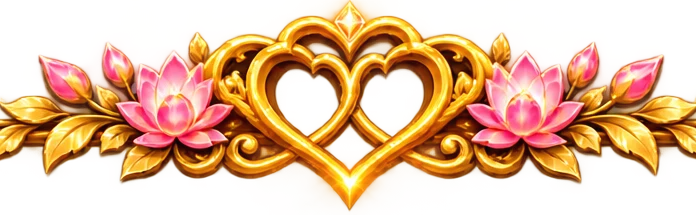
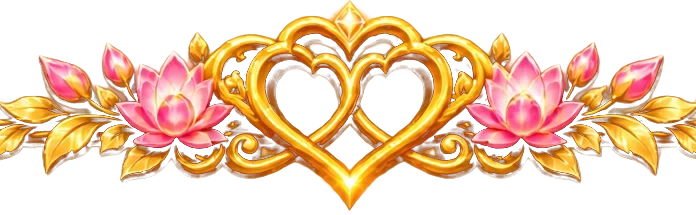
Wedding result: remove share button, fix frame background and topper haze
Claude-Session: https://claude.ai/code/session_01CLtdrZm1piM9T373YnQKig

diff --git a/js/wedding.js b/js/wedding.js
@@ -200,13 +200,7 @@ document.addEventListener("DOMContentLoaded", function () {
       '<div class="wedding-table-wrap"><table class="wedding-table"><thead><tr><th>' + esc(T.colMonth) + "</th><th>" + esc(T.colAnimal) + "</th><th>" + esc(T.colRating) + "</th><th>" + esc(T.colWhy) + "</th><th>" + esc(T.colSeason) + "</th><th>" + esc(T.colHol) + "</th></tr></thead><tbody>" + tableRows + "</tbody></table></div>" +
       '<p class="disclaimer">' + esc(S.wedding_disclaimer || "") + "</p></details>";
 
-    const shareHeading = fill(T.shareHeading, { year: year });
-    const share = typeof shareRowHtml === "function"
-      ? shareRowHtml(shareHeading, { emoji: "💍", heading: shareHeading, subheading: aName(A.animal) + " & " + aName(B.animal) })
-      : "";
-
-    resultBox.innerHTML = guide + share + months + dates + table;
-    if (typeof wireShareRows === "function") wireShareRows(resultBox);
+    resultBox.innerHTML = guide + months + dates + table;
     resultBox.scrollIntoView({ behavior: "smooth", block: "start" });
   });
 });

diff --git a/css/style.css b/css/style.css
@@ -3011,8 +3011,8 @@ footer.site-footer p, .chk-footer p { color: #b9afd6; text-shadow: none; }
   position: relative; margin: 74px 0 26px; padding: 0 12px; text-align: center;
   border: 0 solid transparent; border-width: 62px 56px;
   border-image: url("../images/wedding/frame.webp") 190 / 62px 56px stretch;
-  background: radial-gradient(ellipse at 50% 40%, rgba(40,24,86,.92), rgba(11,8,31,.96));
-  background-clip: padding-box;
+  background: radial-gradient(ellipse at 50% 45%, #1d1347 0%, #120c2e 60%, #0d0922 100%);
+  background-clip: border-box;
   color: #ece6ff;
 }
 .wed-guide-top { position: absolute; left: 50%; top: -112px; transform: translateX(-50%); width: min(340px, 70%); height: auto; pointer-events: none; }
